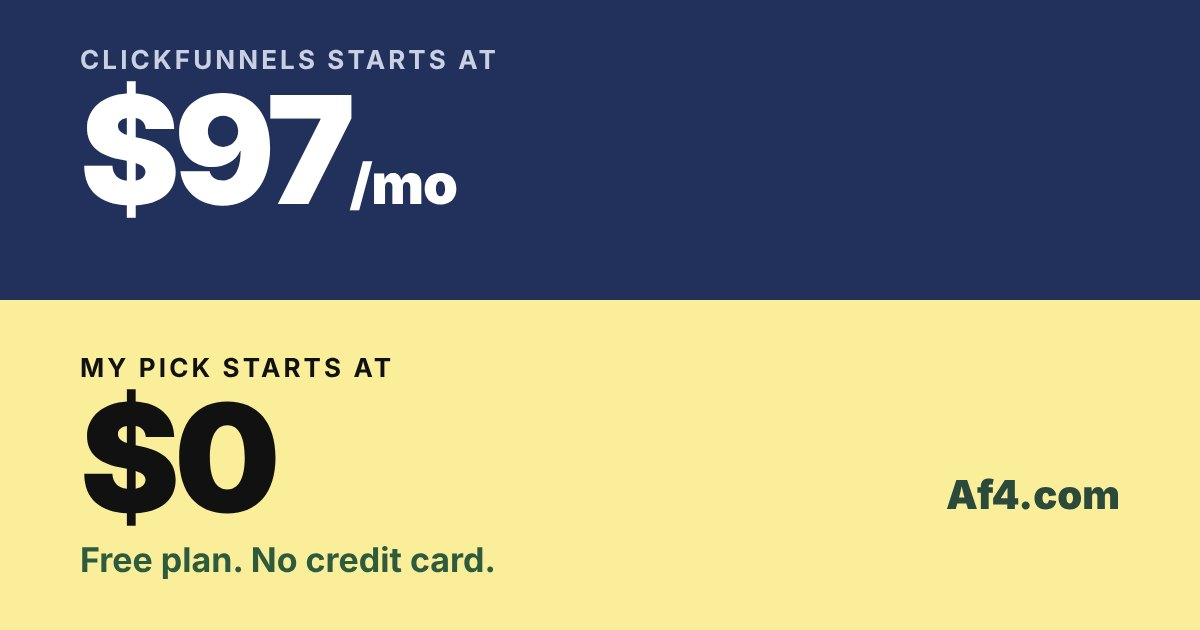
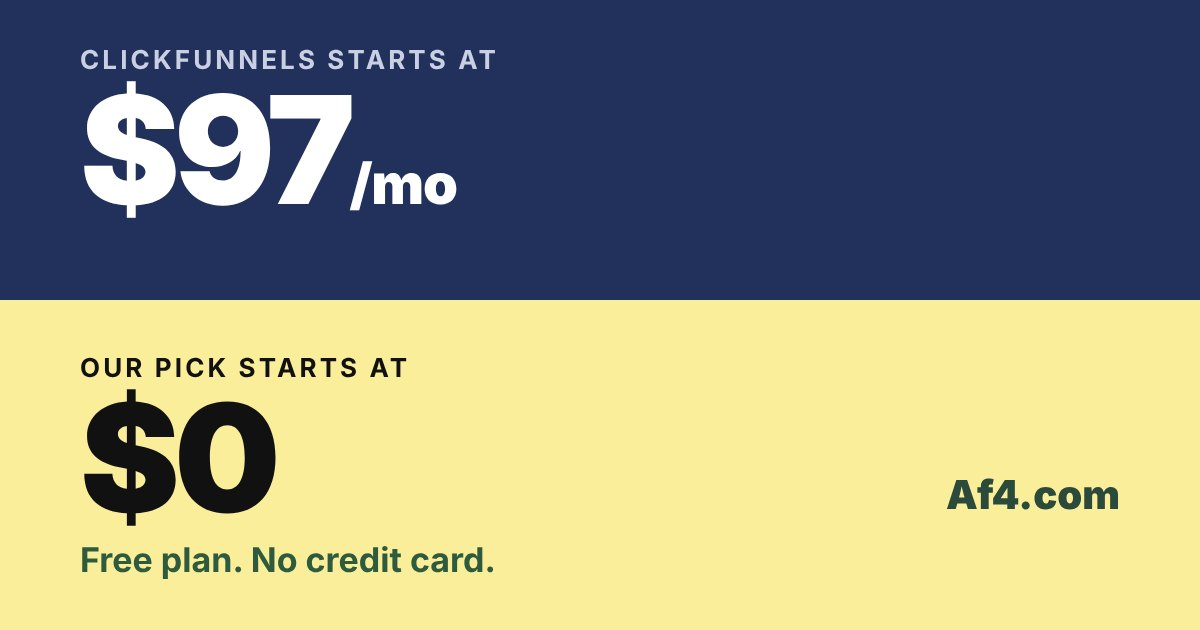
Add files via upload

Changed region(s): [[0.0617, 0.5429, 0.3392, 0.6032]]

diff --git a/es/index.html b/es/index.html
@@ -37,7 +37,7 @@
   </div>
 </header>
 
-<div class="disclosure"><div class="wrap">Gano una comisión si te registras con mis enlaces. No te cuesta nada extra.</div></div>
+<div class="disclosure"><div class="wrap">Analizamos herramientas de marketing y trabajamos con las mejores. Solo recibimos una regalía si te registras con nuestros enlaces, te quedas y pasas a un plan de pago. Tienes el mismo precio y los mismos descuentos que si entras directo. Así de seguros estamos de esta herramienta.</div></div>
 
 <main id="main">
 
@@ -57,7 +57,7 @@
     </svg>
     <div class="hero-bottom">
       <div class="wrap">
-        <h1 id="hero-title"><span class="eyebrow">Mi recomendación cuesta desde</span><span class="big">$0</span></h1>
+        <h1 id="hero-title"><span class="eyebrow">Nuestra recomendación cuesta desde</span><span class="big">$0</span></h1>
         <span class="bar" style="background:var(--green)" aria-hidden="true"></span>
         <p class="highlight">Un plan gratis que no se vence nunca.</p>
         <p class="sub">Embudos, email, cursos y tu página web. Un solo acceso y un solo cobro. Pasas a un plan de pago solo cuando ya te deja dinero.</p>
@@ -136,7 +136,7 @@
         </thead>
         <tbody>
           <tr class="us">
-            <th scope="row">Mi recomendación</th>
+            <th scope="row">Nuestra recomendación</th>
             <td data-label="Plan gratis">Sí, no se vence</td>
             <td data-label="Plan de pago más barato">$17 al mes</td>
             <td data-label="Contactos en ese plan">5,000</td>
@@ -189,8 +189,8 @@
         <p>No. Cobra 0% de comisión por transacción en todos sus planes. Lo único que pagas es la comisión normal de tu procesador de pagos, como Stripe o PayPal.</p>
       </details>
       <details>
-        <summary>¿Esta plataforma es tuya?</summary>
-        <p>No. Soy afiliado independiente. Los botones de «Empieza gratis» te llevan a la página de registro de la plataforma. Si te registras y después contratas un plan de pago, yo recibo una comisión. Tú pagas lo mismo.</p>
+        <summary>¿Esta plataforma es de ustedes?</summary>
+        <p>No. Somos afiliados independientes. Los botones de «Empieza gratis» te llevan a la página de registro de la plataforma. Si te registras y después contratas un plan de pago, nosotros recibimos una comisión. Tú pagas lo mismo.</p>
       </details>
     </div>
   </section>
@@ -210,7 +210,7 @@
 <!-- 11. Footer -->
 <footer class="site-footer">
   <div class="wrap">
-    <p><strong>Aviso de afiliado:</strong> Af4.com es un sitio independiente de Jose Luis Aguilar. Soy afiliado de la plataforma que recomiendo en esta página. Los botones de «Empieza gratis» te llevan a su página de registro. Si te registras y después contratas un plan de pago, recibo una comisión. No te cuesta nada extra. La plataforma no es mía y no trabajo para la empresa que la maneja.</p>
+    <p><strong>Aviso de afiliado:</strong> Af4.com es un sitio independiente de comparación. Somos afiliados de la plataforma que recomendamos en esta página. Los botones de «Empieza gratis» te llevan a su página de registro. Si te registras y después contratas un plan de pago, recibimos una comisión. No te cuesta nada extra. La plataforma no es nuestra y no trabajamos para la empresa que la maneja.</p>
     <p class="fineprint">Los precios y funciones vienen de la página de precios de cada empresa y pueden cambiar. Revisa los precios en la página de la plataforma antes de comprar.</p>
     <p><a href="/es/privacidad.html">Privacidad</a></p>
     <p class="fineprint">© 2026 Af4.com</p>

diff --git a/index.html b/index.html
@@ -37,7 +37,7 @@
   </div>
 </header>
 
-<div class="disclosure"><div class="wrap">I earn a commission if you sign up through my links. It costs you nothing extra.</div></div>
+<div class="disclosure"><div class="wrap">We analyze marketing tools and partner with the best. We only earn a royalty if you sign up through our links, stay, and upgrade. You get the same price and discounts as going direct. That's how confident we are in this tool.</div></div>
 
 <main id="main">
 
@@ -57,7 +57,7 @@
     </svg>
     <div class="hero-bottom">
       <div class="wrap">
-        <h1 id="hero-title"><span class="eyebrow">My pick starts at</span><span class="big">$0</span></h1>
+        <h1 id="hero-title"><span class="eyebrow">Our pick starts at</span><span class="big">$0</span></h1>
         <span class="bar" style="background:var(--green)" aria-hidden="true"></span>
         <p class="highlight">A free plan that never expires.</p>
         <p class="sub">Funnels, email, courses, and your website. One login, one bill. Upgrade only when it pays for itself.</p>
@@ -136,7 +136,7 @@
         </thead>
         <tbody>
           <tr class="us">
-            <th scope="row">My pick</th>
+            <th scope="row">Our pick</th>
             <td data-label="Free plan">Yes, never expires</td>
             <td data-label="Lowest paid plan">$17/mo</td>
             <td data-label="Contacts on that plan">5,000</td>
@@ -190,7 +190,7 @@
       </details>
       <details>
         <summary>Is this your platform?</summary>
-        <p>No. I'm an independent affiliate. The Start Free buttons take you to the platform's own sign-up page. If you sign up and later buy a paid plan, I earn a commission. Your price stays the same.</p>
+        <p>No. We're an independent affiliate. The Start Free buttons take you to the platform's own sign-up page. If you sign up and later buy a paid plan, we earn a commission. Your price stays the same.</p>
       </details>
     </div>
   </section>
@@ -210,7 +210,7 @@
 <!-- 11. Footer -->
 <footer class="site-footer">
   <div class="wrap">
-    <p><strong>Affiliate disclosure:</strong> Af4.com is an independent site run by Jose Luis Aguilar. I'm an affiliate of the platform this page recommends. The Start Free buttons take you to its sign-up page. If you sign up and later buy a paid plan, I earn a commission. It costs you nothing extra. I don't own the platform or work for the company behind it.</p>
+    <p><strong>Affiliate disclosure:</strong> Af4.com is an independent comparison site. We're an affiliate of the platform this page recommends. The Start Free buttons take you to its sign-up page. If you sign up and later buy a paid plan, we earn a commission. It costs you nothing extra. We don't own the platform or work for the company behind it.</p>
     <p class="fineprint">Prices and features come from each company's public pricing page and can change. Check the platform's pricing page for current terms before you buy.</p>
     <p><a href="/privacy.html">Privacy</a></p>
     <p class="fineprint">© 2026 Af4.com</p>
